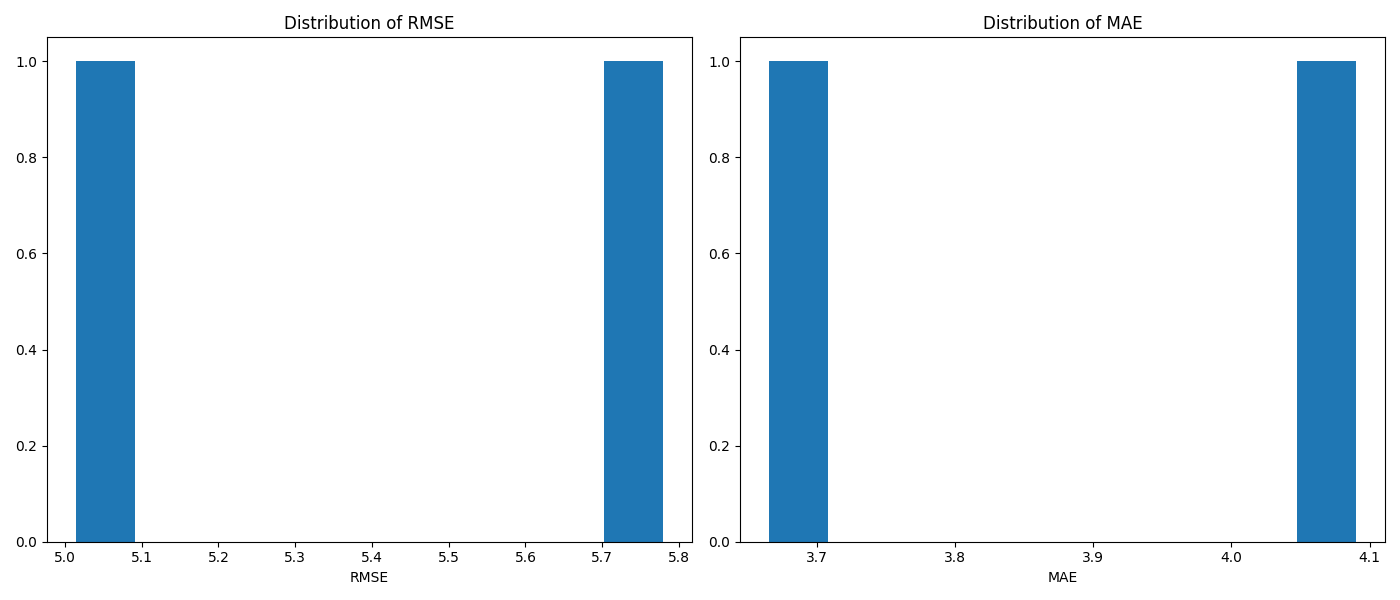
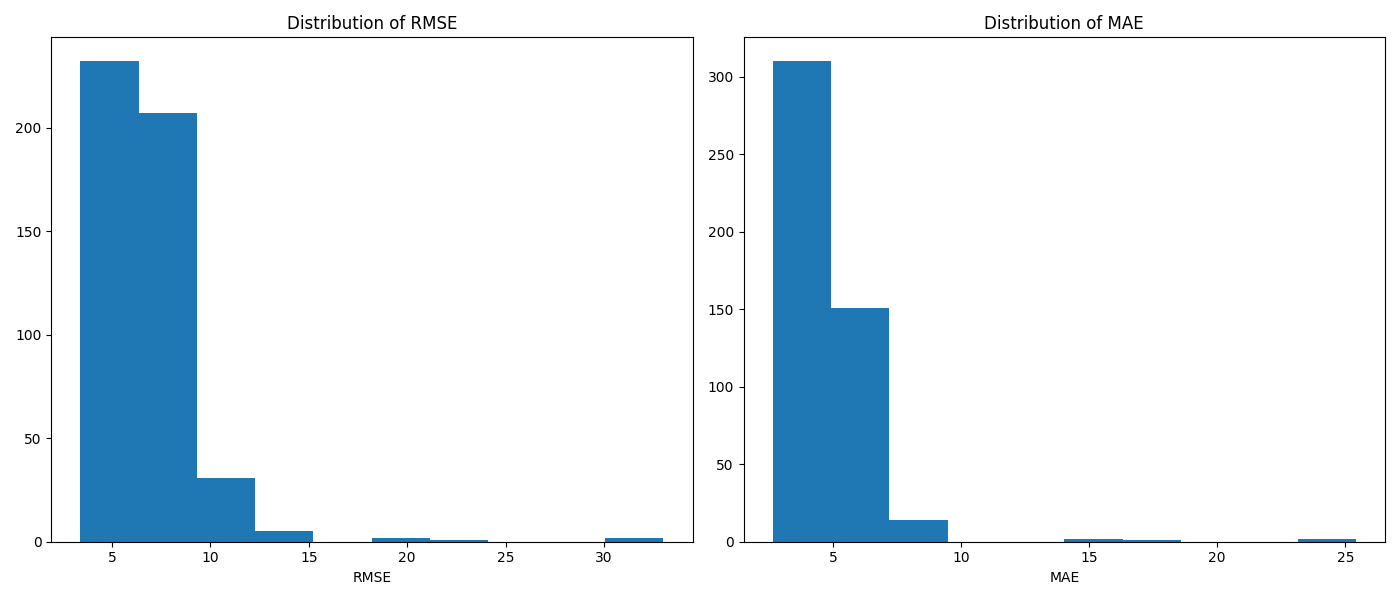
updated but incomplete SA plots

diff --git a/scripts/eval_SA_results.py b/scripts/eval_SA_results.py
@@ -2,6 +2,7 @@
 import os
 import yaml
 import pandas as pd
+import numpy as np
 
 import matplotlib.pyplot as plt
 #import seaborn as sns
@@ -62,29 +63,57 @@ def evaluate(df):
         df_mode = df.groupby('data_mode')
         plt.figure(figsize=(14, 6))
 
+        # Define consistent bins and range for RMSE
+        rmse_min, rmse_max = df['RMSE'].min(), df['RMSE'].max()
+        mae_min, mae_max = df['MAE'].min(), df['MAE'].max()
+        
+        bins_rmse = np.linspace(rmse_min, rmse_max, 20)  # 30 bins for RMSE
+        bins_mae = np.linspace(mae_min, mae_max, 20)     # 30 bins for MAE
+
         plt.subplot(1, 2, 1)
         for name, group in df_mode:
-            plt.hist(group['RMSE'], alpha=0.5, label=name)
+            plt.hist(group['RMSE'], bins=bins_rmse, alpha=0.5, label=name, edgecolor='black')
         plt.title('RMSE by Data Mode')
         plt.xlabel('RMSE')
         plt.legend()
 
         plt.subplot(1, 2, 2)
+        for name, group in df_mode:
+            plt.hist(group['MAE'], bins=bins_mae, alpha=0.5, label=name, edgecolor='black')
+        plt.title('MAE by Data Mode')
+        plt.xlabel('MAE')
+        plt.legend()
+
+        plt.tight_layout()
+        plt.savefig('scripts/RMSE_MAE_hist_by_data_mode.png')
+
+        plt.figure(figsize=(12,6))
+
+        plt.subplot(1, 2, 1)
+        data = [group['RMSE'].values for name, group in df_mode]
+        plt.boxplot(data, labels=df_mode.groups.keys())
+        plt.ylim(bottom=0)
+        plt.title('RMSE by Data Mode')
+        plt.xlabel('Data Mode')
+        plt.ylabel('RMSE')
+
+        plt.subplot(1, 2, 2)
         data = [group['MAE'].values for name, group in df_mode]
         plt.boxplot(data, labels=df_mode.groups.keys())
+        plt.ylim(bottom=0)
         plt.title('MAE by Data Mode')
         plt.xlabel('Data Mode')
         plt.ylabel('MAE')
 
         plt.tight_layout()
-        plt.savefig('scripts/RMSE_MAE_by_data_mode.png')
+        plt.savefig('scripts/RMSE_MAE_boxplots_by_data_mode.png')
 
 def main():
     """
     Main function to orchestrate the evaluation process.
     """
 
-    experiments_folder = '/scratch2/arrueegg/WP2/GIM_fusion_VLBI/experiments/'
+    experiments_folder = '/cluster/work/igp_psr/arrueegg/WP2/GIM_fusion_VLBI/experiments/'
     
     df = pd.DataFrame()
     for experiment_name in os.listdir(experiments_folder):
